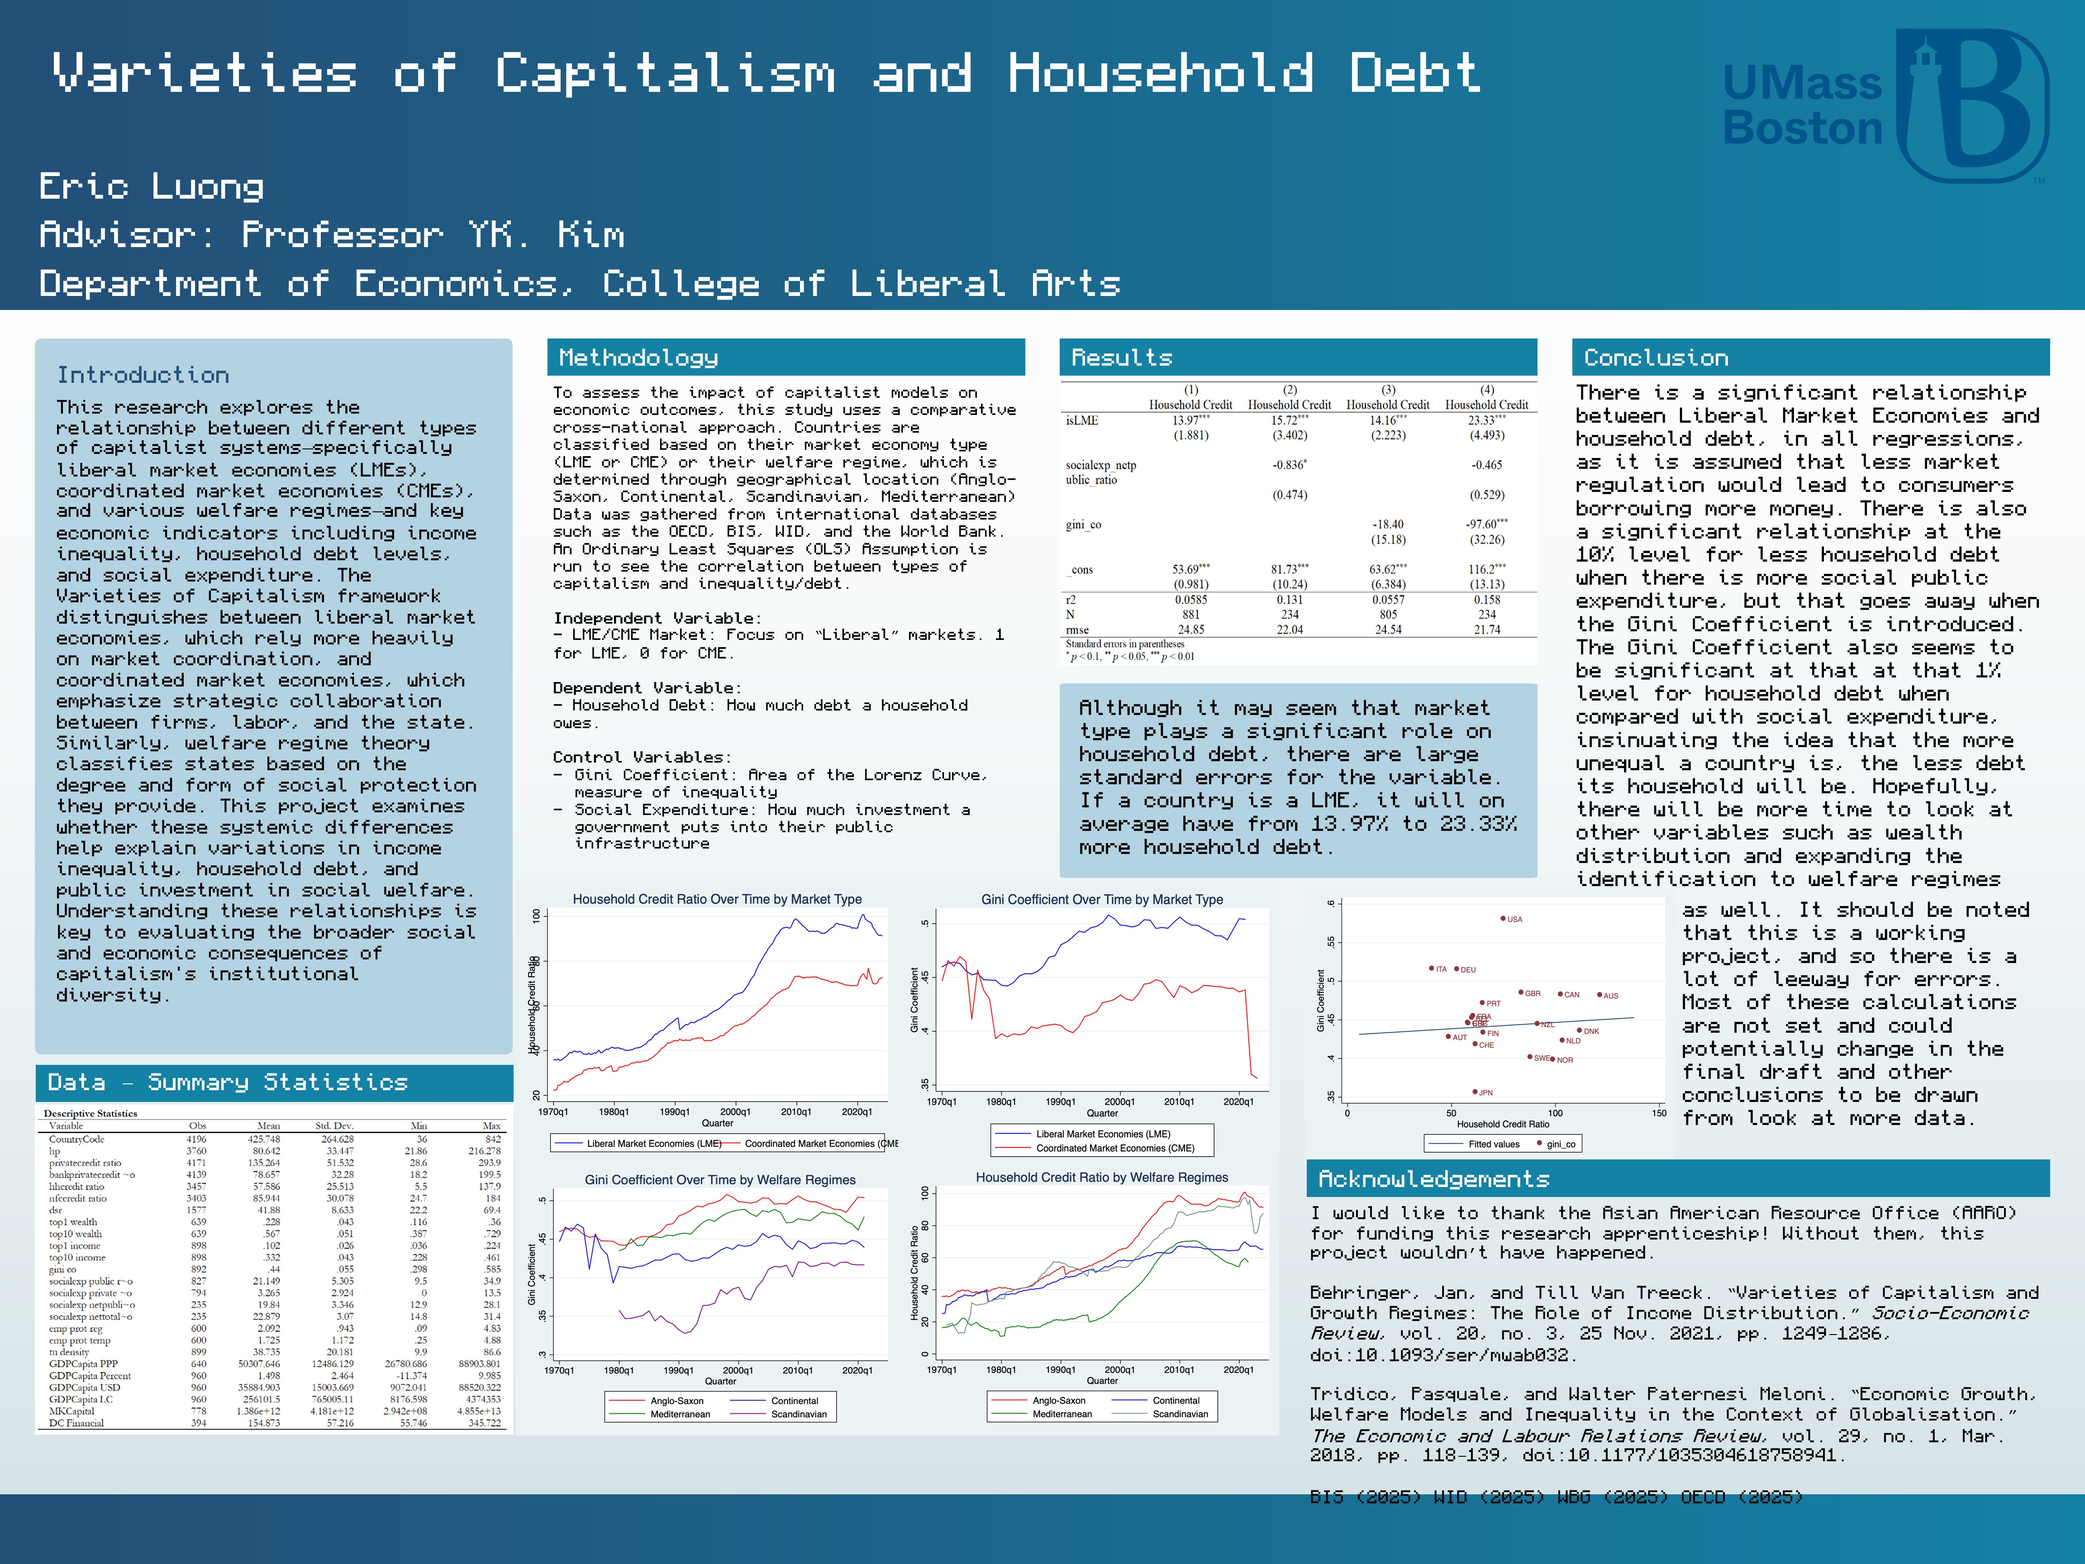
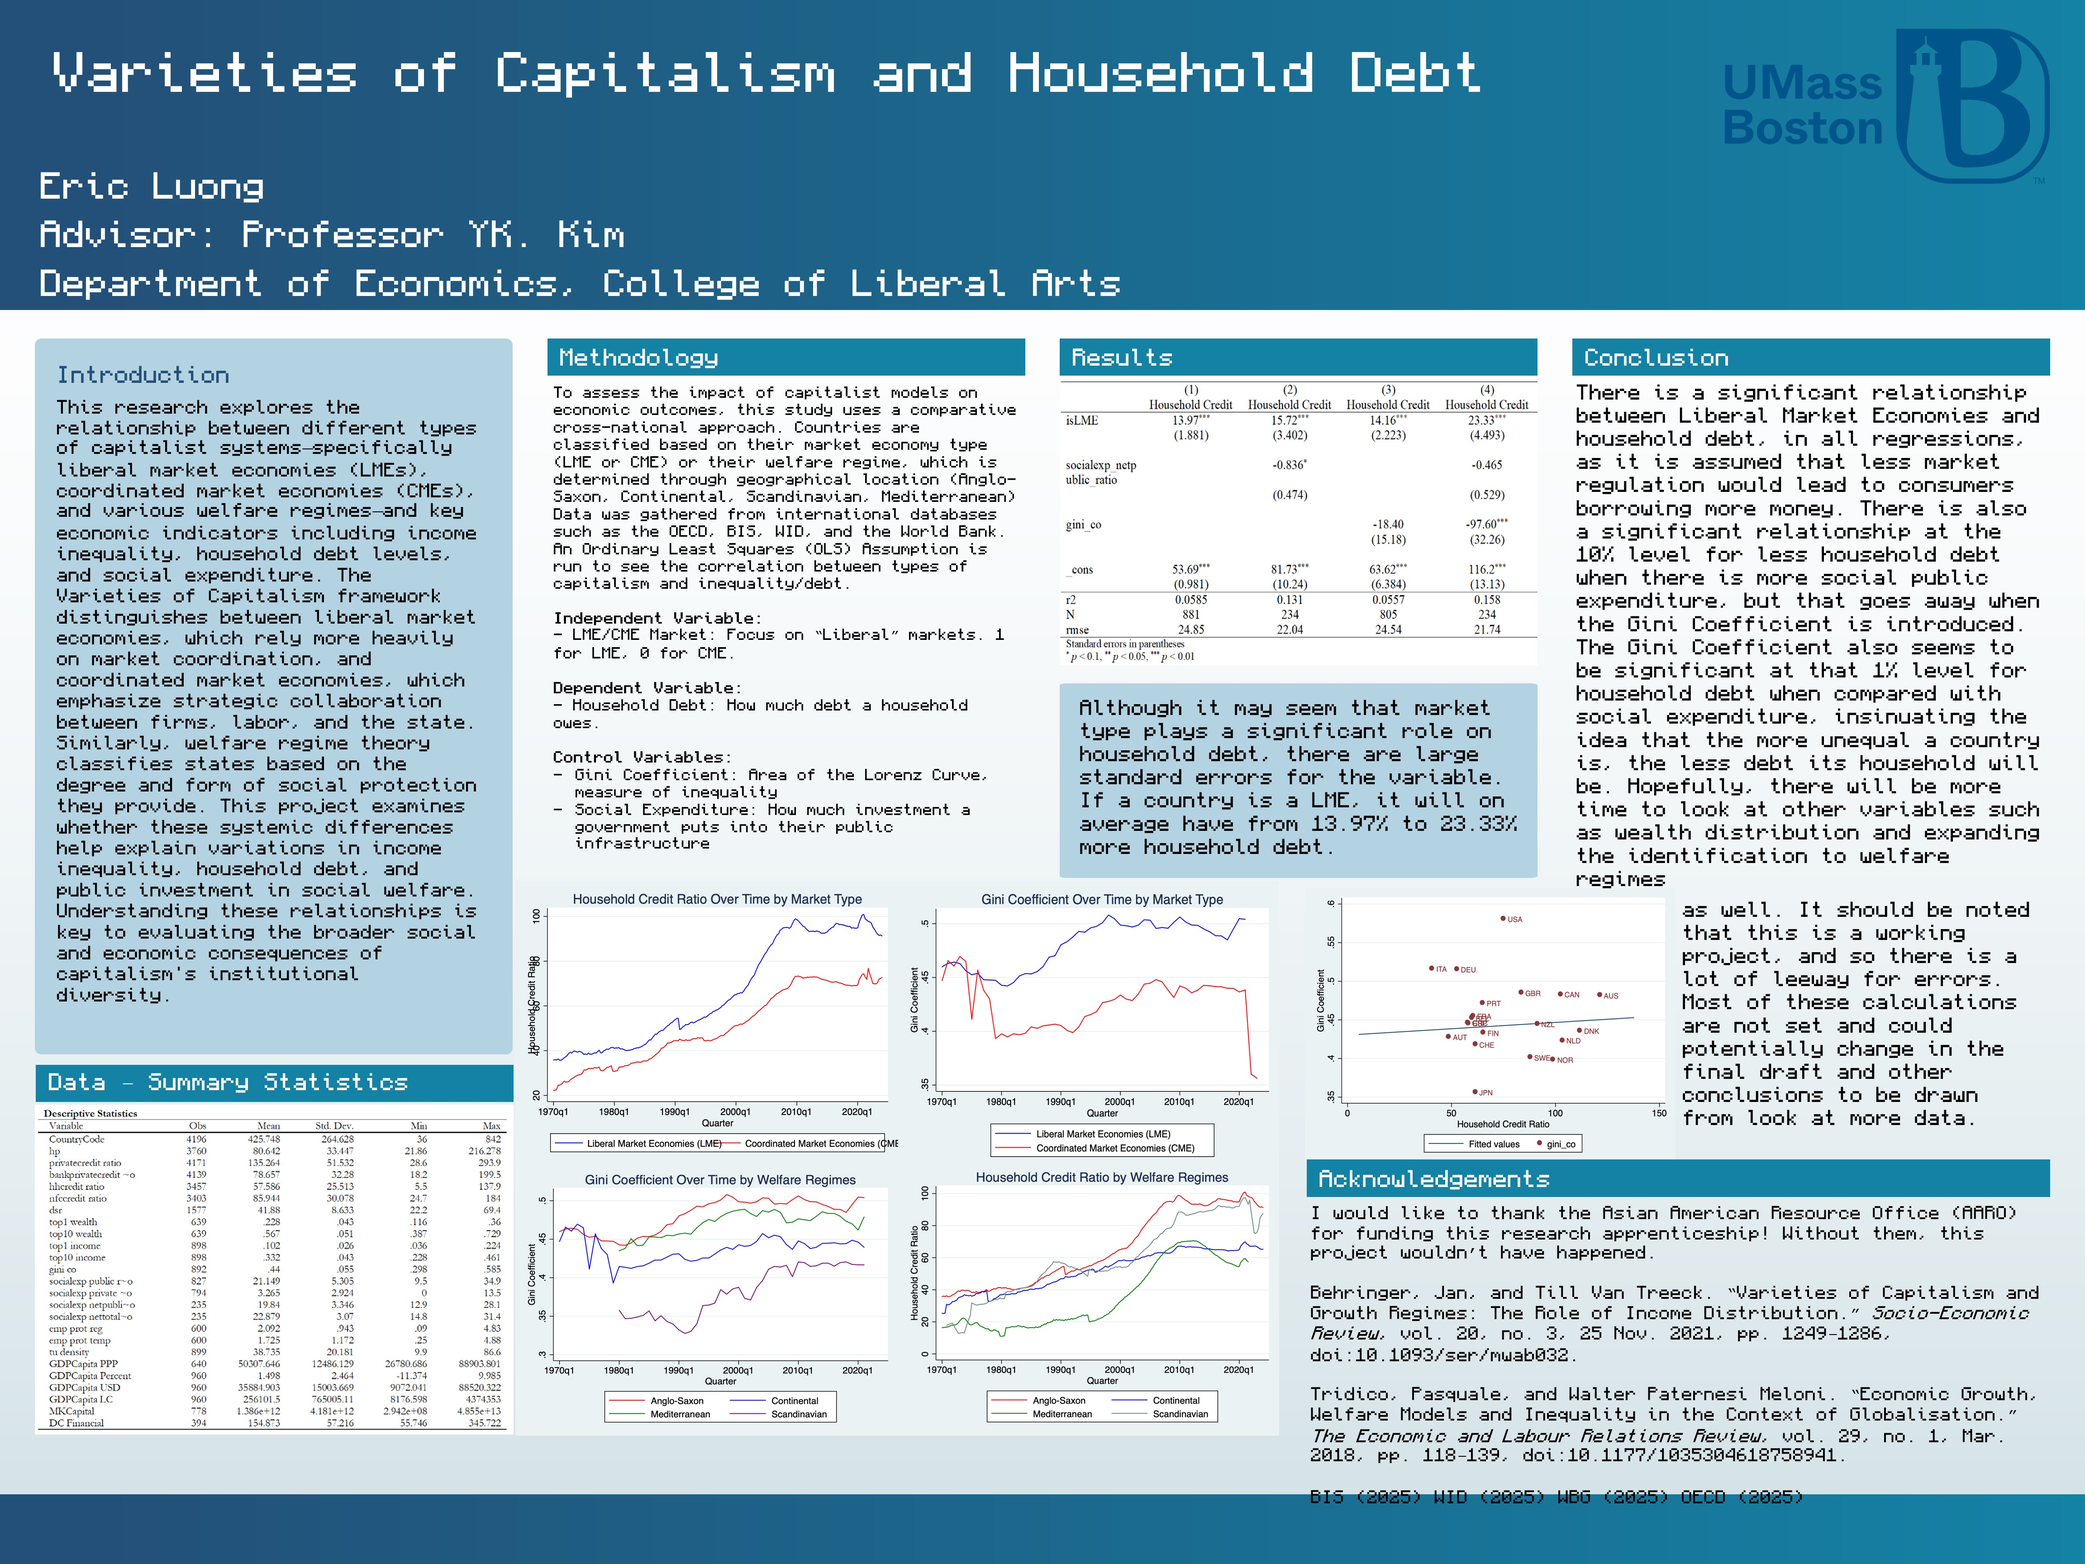
QOL Updates

Changed region(s): [[0.75, 0.4062, 0.9688, 0.5625]]

diff --git a/src/lib/components/Projects.svelte b/src/lib/components/Projects.svelte
@@ -24,7 +24,7 @@
 		},
 		{
 			id: 'project-2',
-			title: 'Bakery Production Forecaster',
+			title: 'Pastry Predictions',
 			summary: 'A short one-line summary of project two.',
 			tags: ['React', 'TypeScript'],
 			description: 'Full description of project two goes here. Replace with real content.',
@@ -32,14 +32,6 @@
 		},
 		{
 			id: 'project-3',
-			title: 'Random Heatmap Generator',
-			summary: 'A short one-line summary of project three.',
-			tags: ['SvelteKit', 'PostgreSQL'],
-			description: 'Full description of project three goes here. Replace with real content.',
-			links: [{ type: 'github', url: 'https://github.com/yourusername/project-three' }]
-		},
-		{
-			id: 'project-4',
 			title: 'Monkey Mania II',
 			summary: 'A short one-line summary of project four.',
 			tags: ['Flask', 'Docker'],
@@ -47,11 +39,11 @@
 			links: [{ type: 'github', url: 'https://github.com/yourusername/project-four' }]
 		},
 		{
-			id: 'project-5',
+			id: 'project-4',
 			title: 'gnoule.com',
 			summary: 'This website and it\'s previous iteration!',
-			tags: ['Terraform', 'Serverless'],
-			description: 'My personal portfolio website built from Svelte, javascript, and vanilla CSS, deployed on cloudflare pages. My other works involve experience with ReactJS, NodeJS, Typescript, and deployment through Vercel.',
+			tags: ['Svelte', 'React', 'Next.JS', 'TypeScript', 'CSS', 'Cloudflare Pages', 'Vercel'],
+			description: 'My personal portfolio website built from Svelte, javascript, and vanilla CSS, deployed on Cloudflare Pages. My other works (Built in 2022 right before AI!) involve experience with React, Next.JS, Typescript, and deployment through Vercel.',
             media: { type: 'image', src: '/images/project_portfolio.png', alt: 'Screenshot of gnoule.com' },
 			links: [{ type: 'demo', url: 'https://gnoule.com/' }, { type: 'github', url: 'https://github.com/yourusername/gnoule' }]
 		},

diff --git a/src/lib/components/AccordionCard.svelte b/src/lib/components/AccordionCard.svelte
@@ -2,18 +2,18 @@
 	import { slide } from 'svelte/transition';
 
 	type Props = {
-		logo: string;
-		logoAlt: string;
-		heading: string;
-		subheading: string;
-		tagline?: string;
-		company?: string;
-		location?: string;
-		dates: string;
-		bullets?: string[];
-		isOpen: boolean;
-		onToggle: () => void;
-	};
+	    logo: string;
+	    logoAlt: string;
+	    heading: string;
+	    subheading?: string;
+	    tagline?: string;
+	    company?: string;
+	    location?: string;
+	    dates: string;
+	    bullets?: string[];
+	    isOpen: boolean;
+	    onToggle: () => void;
+    };
 
 	let {
 		logo,
@@ -34,17 +34,19 @@
 	<button class="card-header" onclick={onToggle} aria-expanded={isOpen}>
 		<img class="logo" src={logo} alt={logoAlt} />
 
-		<div class="header-main">
-			<h3>{heading}</h3>
-			<p class="subheading">{subheading}</p>
-			{#if company && location}
-				<p class="tagline">
-					@ <strong>{company}</strong> — {location}
-				</p>
-			{:else}
-				<p class="tagline">{tagline}</p>
-			{/if}
-		</div>
+        <div class="header-main">
+	        <h3>{heading}</h3>
+	            {#if subheading}
+		    <p class="subheading">{subheading}</p>
+	            {/if}
+	            {#if company && location}
+		    <p class="tagline">
+			    @ <strong>{company}</strong> — {location}
+		    </p>
+	            {:else}
+		    <p class="tagline">{tagline}</p>
+	            {/if}
+        </div>
 
 		<div class="header-meta">
 			<span class="dates">{dates}</span>

diff --git a/src/lib/components/Experience.svelte b/src/lib/components/Experience.svelte
@@ -19,7 +19,7 @@
 			logo: '/logos/bank-of-america.png',
 			bullets: [
 				'Managed financial portfolios for 30+ clients weekly, identifying lending and investment opportunities that generated approximately $100K in balance growth through data-informed financial recommendations.',
-				'Exceeded performance expectations by achieving 165% of management-defined sales and service goals through relationship management and data-informed financial recommendations.',
+				'Exceeded performance expectations by achieving +200% of management-defined sales and service goals through relationship management and personalized financial suggestions.',
 				'Executed financial transactions over $1M while maintaining regulatory and operational compliance.'
 			]
 		},
@@ -78,7 +78,6 @@
 				logo={entry.logo}
 				logoAlt="{entry.company} logo"
 				heading={entry.title}
-				subheading=""
 				company={entry.company}
 				location={entry.location}
 				dates={entry.dates}

diff --git a/src/lib/components/Bio.svelte b/src/lib/components/Bio.svelte
@@ -1,7 +1,7 @@
 <script lang="ts">
 	// Edit this to update your bio
 	const bioText =
-        "Data Scientist based in Boston, MA. I research labor economics, financial insititutions, and behavioral economics. Passionate about data and machine learning in economics. I enjoy consuming media in my free time.";
+        "Data Scientist based in Boston, MA. I research labor economics, financial insititutions, and behavioral economics. Passionate about data and machine learning in economics.";
 	let sectionEl: HTMLElement | undefined = $state();
 	let visible = $state(false);
 
@@ -31,7 +31,7 @@
 
 <style>
 	.bio {
-		max-width: 650px;
+		max-width: 1000px;
 		margin: 0 auto;
 		padding: 2rem 1.5rem 3.5rem;
 		text-align: center;
@@ -48,7 +48,7 @@
 
 	.label {
 		display: inline-block;
-		font-size: 0.75rem;
+		font-size: 1.5rem;
 		font-weight: 600;
 		letter-spacing: 0.15em;
 		text-transform: uppercase;

diff --git a/src/lib/components/ProjectsAndResearch.svelte b/src/lib/components/ProjectsAndResearch.svelte
@@ -1,18 +1,18 @@
 <script lang="ts">
-	import Projects from './Projects.svelte';
 	import Research from './Research.svelte';
-
-	let view = $state<'projects' | 'research'>('projects');
+	import Projects from './Projects.svelte';
+	
+	let view = $state<'research' | 'projects'>('research');
 </script>
 
 <section class="projects-research">
 	<div class="toggle">
-		<button class:active={view === 'projects'} onclick={() => (view = 'projects')}>
-			Projects
+		<button class:active={view === 'research'} onclick={() => (view = 'research')}>
+    			Research
 		</button>
 		<span class="divider">/</span>
-		<button class:active={view === 'research'} onclick={() => (view = 'research')}>
-			Research
+		<button class:active={view === 'projects'} onclick={() => (view = 'projects')}>
+			Projects
 		</button>
 	</div>
 

diff --git a/src/lib/components/Education.svelte b/src/lib/components/Education.svelte
@@ -27,7 +27,7 @@
 			logo: '/logos/umb.png',
 			bullets: [
 				'Magna Cum Laude',
-				'Teaching Assistant: Theory of Computation, Ethics in Computer Science',
+				'Teaching Assistant: Theory of Computation, Ethics in Computer Science, First Year Seminar: Frame Theory',
 				'Leonard J. Kirsch Award Recipient'   
 			]
 		}
@@ -51,7 +51,6 @@
 				logo={entry.logo}
 				logoAlt="{entry.school} logo"
 				heading={entry.degree}
-				subheading=""
 				tagline="@ {entry.school}"
 				dates={entry.dates}
 				bullets={entry.bullets}

diff --git a/src/lib/components/Ouroboros.svelte b/src/lib/components/Ouroboros.svelte
@@ -125,7 +125,7 @@
 	.body {
 		fill: none;
 		stroke: var(--color-accent);
-		stroke-width: 15;
+		stroke-width: 10;
 		stroke-linecap: round;
 	}
 

diff --git a/static/BLL_EPI_Design.md b/static/BLL_EPI_Design.md
@@ -1,0 +1,61 @@
+# Black Land Loss (BLL) — SvelteKit Rewrite Brief
+ 
+## Project Overview
+A new SvelteKit site, built from scratch (not a port of the existing React/Flask app), visualizing historical Black land loss across U.S. states and counties, 1920–1997. The goal is a static, backend-free site that computes land-loss and value-change figures from a shipped dataset and presents them through an EPI Minimum Wage Tracker–style interactive grid, built for a general audience — from researchers who want to dig into the numbers to people encountering this data for the first time.
+ 
+## Core Goal
+Two things have to both be true:
+1. **The math has to be right.** Land-loss percentage and value-per-acre change, computed correctly for whatever year range the user selects, matching the logic in the current Flask backend (see "Ported Calculation Logic" below).
+2. **The visual has to make the research legible.** Someone with no background in the dataset should be able to look at the grid, click a state, and understand what happened there — not just see a number.
+## Reference Design: EPI Minimum Wage Tracker
+Adopt the interaction pattern, not the visual identity:
+- **Cartogram grid, not a geographic map.** Every state is an equal-sized square tile, arranged in a rough approximation of its real position.
+- **Color intensity encodes the data value itself** — land-loss percentage or value-per-acre change, not just "has data" vs. "no data."
+- **Gray tiles = state not in the dataset.**
+- **Right-side detail panel**, populated on tile click: headline number, supporting facts, notes.
+- **Legend** showing the color scale's range and what gray means.
+- **(Later)** Toggle tabs to switch which metric colors the grid.
+- **(Later)** Filter row — e.g., "land loss greater than X%."
+## Stack
+- **SvelteKit**, file-based routing, static adapter (`@sveltejs/adapter-static`) — no backend, no server-rendered routes.
+- Same four pages as before: Home, About, FAQ, Contact.
+- Deployment target is likely Cloudflare Pages, but the build should stay host-agnostic (plain static output) until that's decided for real.
+## Data Pipeline
+- **Source of truth:** `dvf_bll_bld_001_v01.csv` (confirm if other files feed the numbers).
+- **Export process:** a one-time (rerun-as-needed) script that reads the CSV and writes static JSON into the SvelteKit project. Not part of the build step — run manually, commit the output. If the CSV changes, rerun the script and commit the new JSON as a visible diff.
+- **JSON shape:** raw, filtered rows — not precomputed percentages. Precomputing every valid year-pair × state × county combination was considered and rejected: 17 years gives 136 possible start/end pairs, multiplied across ~17 states and their counties, which is unnecessary bulk for a computation this cheap to do in the browser.
+  - One JSON array of records: `{ state, name, county, year, liftot, valtot, valavg }`, filtered to drop unused rows.
+  - A separate `states.json` for the state/county picklist structure (state_code, state_name, sorted county list) — this is static once generated and doesn't need recomputing on every page load.
+- **Missing data:** use `null`, not the `-1` sentinel the Flask version used to dodge NaN-in-JSON — handle `null`/zero checks explicitly in the calculation code instead.
+## Ported Calculation Logic (must match current backend behavior)
+Source: current `get-state-data` / `get-county-data` Flask routes.
+- Land-loss percentage: `((land_year2 − land_year1) / land_year1) × 100`, using the `liftot` column, filtered to the matching year + name (+ `county == 0` for state-level, or matching `state` for county-level).
+- Value per acre: `valtot / liftot` for each year, guarding against `liftot` being zero or missing (invalid → don't divide, return `null`/`N/A` for that year).
+- If either year's `liftot` is missing or zero, the percentage itself is `N/A`, not a computed value.
+- All computation happens **client-side**, triggered by slider/dropdown changes, not fetched from a server.
+### New requirement: nominal vs. inflation-adjusted value
+The current Flask backend only returns **nominal** value (the raw dollar figure for that year). The rewrite needs to show **both**:
+- **Value at that time** — the nominal figure, as today.
+- **Value in today's dollars** — the same figure converted using an inflation index, so a 1920 value and a 1997 value are actually comparable to a present-day reader.
+This is new scope, not a port — the old backend has no inflation-adjustment logic anywhere. It requires:
+- An inflation index/CPI table spanning 1920–1997 (and up to the present, to convert to "today's dollars"). **Source not yet confirmed — see Open Questions.**
+- A decision on where that index lives: baked into the JSON export (each year record carries its CPI multiplier) vs. a separate small lookup table loaded alongside the main dataset. Likely the latter, since a year→CPI-factor table is tiny and reusable across every state/county calculation rather than duplicated per row.
+- The detail panel design needs a slot for both figures, not just one headline value — worth deciding whether "today's dollars" is the primary headline (more meaningful to a general-audience reader) with nominal shown as secondary context, or vice versa.
+## What to Preserve
+- **Dark theme with orange accent as the starting point** — open to revisiting the palette and typography as part of this rewrite, but keep it intentional rather than defaulting to framework boilerplate. (See `frontend-design` guidance for how to do this well.)
+- **The year-range dual slider (1920–1997)** — this is BLL's core differentiator from EPI's point-in-time tool. Keep it front and center near the grid.
+## Component Structure (initial pass, expect to adjust once building)
+- Grid + tile + legend, likely collapsed into fewer files than the old React version since Svelte's scoped styles remove the reason to keep CSS separate per component.
+- Detail panel.
+- Shared selection state (selected state, county, year range) — likely a Svelte store rather than prop-drilled, since SvelteKit's page structure doesn't lend itself to the old "lift state to HomePage" pattern.
+## Audience Considerations
+General audience, spanning researchers to first-time visitors. This means:
+- The detail panel and About page should carry real explanatory content — what the numbers mean, where they come from — not just raw figures.
+- Consider whether the Home page grid itself needs a short framing sentence or tooltip for someone with zero context on Black land loss as a topic, versus assuming prior knowledge.
+- FAQ and About pages get real copy as part of this rewrite, not placeholder text carried over from the old site.
+## Open Questions / Decisions Still Needed
+- **Inflation index source for nominal-vs-today's-dollars conversion** — which CPI/inflation series, and does it need to handle methodology differences across the 1920–1997 span.
+- Confirm `dvf_bll_bld_001_v01.csv` is the only data source.
+- Final color palette and typography — open for reconsideration, to be decided during design work rather than locked in this brief.
+- Whether the toggle-tab and filter-row features move from "later" to core scope once the base grid is working.
+- Deployment target — Cloudflare Pages is likely but not committed.
